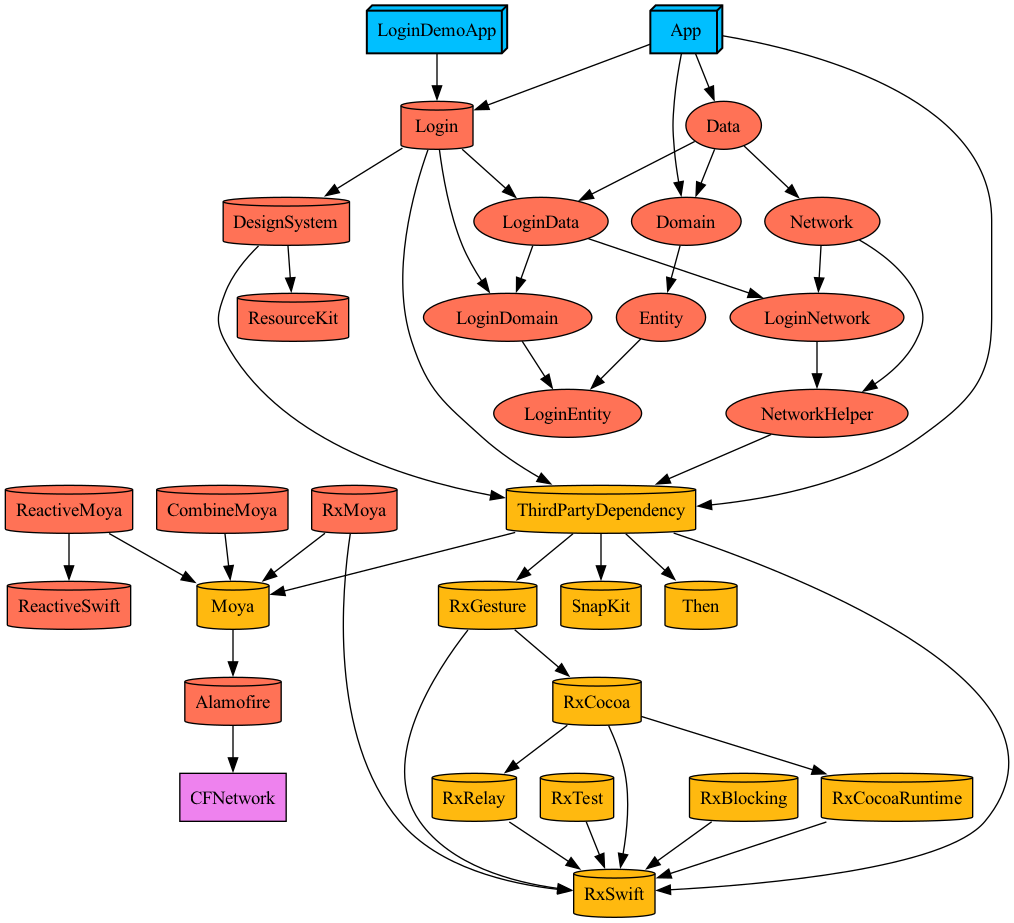
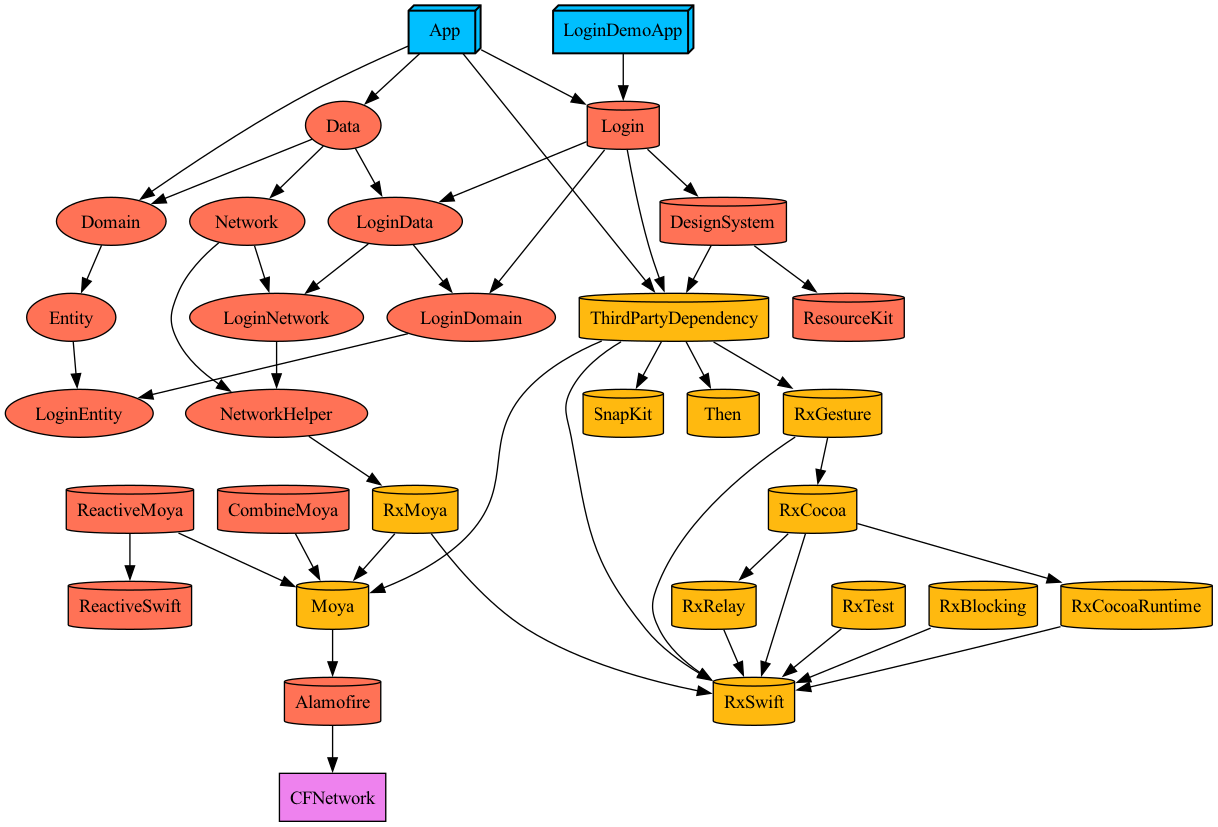
[SETTING] `NetworkHelper`에서 `RxMoya`만 의존할 수 있도록 변경 및 `RxMoya` 의존성 추가

diff --git a/NetworkHelper/Project.swift b/NetworkHelper/Project.swift
@@ -8,8 +8,6 @@
 import ProjectDescription
 import ProjectDescriptionHelpers
 
-import ThirdPartyDependencyPlugin
-
 let projectName: String = "NetworkHelper"
 let iOSTargetVersion: String = "16.0"
 
@@ -18,7 +16,7 @@ let project = Project.makeLibraryProject(
   iOSTargetVersion: "16.0",
   baseSetting: .init(),
   dependencies: [
-    .ThirdParty.Main
+    .external(name: "RxMoya")
   ],
   isDynamic: false,
   needTestTarget: false,

diff --git a/Tuist/Dependencies.swift b/Tuist/Dependencies.swift
@@ -20,7 +20,8 @@ let thirdPartySPM = SwiftPackageManagerDependencies(
     "Then": .framework,
     "RxSwift": .framework,
     "RxGesture": .framework,
-    "Moya": .framework
+    "Moya": .framework,
+    "RxMoya": .framework
   ]
 )
 
